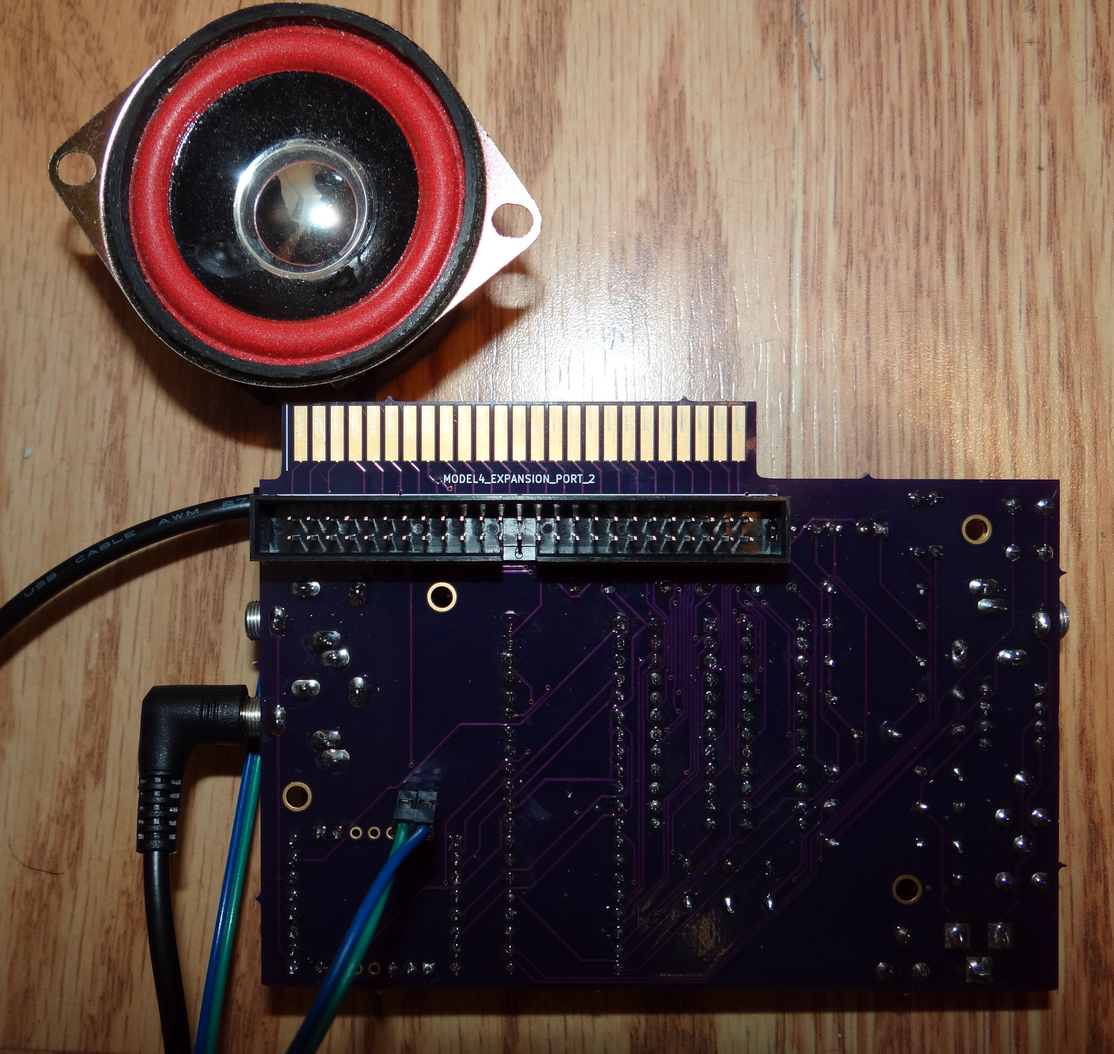
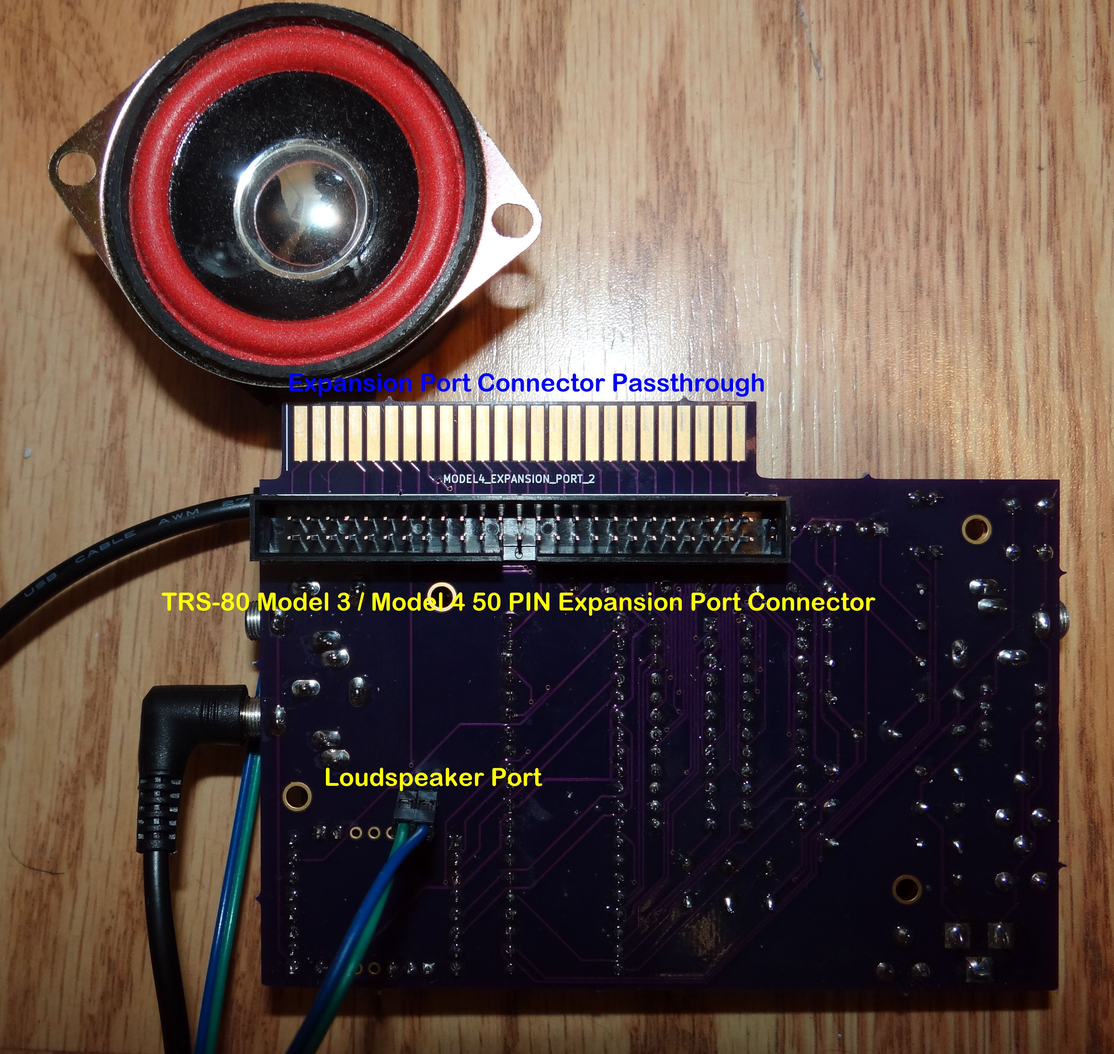
Model 3 / 4 version.

Changed region(s): [[0.1558, 0.5605, 0.7791, 0.5916], [0.2493, 0.3425, 0.6856, 0.3737], [0.2805, 0.7162, 0.4986, 0.7473]]

diff --git a/README.md b/README.md
@@ -72,9 +72,7 @@ Talker/80 offers:
 
   1. **DECtalk-Based Text-to-Speech (TTS) Synthesis:** the **Epson S1V30120 TTS** chip on the utilized mikroBUS "TextToSpeech Click!" daughterboard from MikroElektronika implements DECtalk v5 - a natural sounding speech synthesizer for English and Spanish, with different voices. DECtalk can even sing. The **DECtalk mode** is very powerful and versatile, but the DECtalk control language can be difficult to program. Hence, a simplified control language for the S1V30120 is offered as well, the so-called **Epson mode**. DECtalk mode is used to implement **emulations of two classic TRS-80 Voice Synthesizers**: the official TRS Voice Synthesizer from Tandy Radio Shack (Model 1 only), and the VS-100 Voice Synthesizer from Alpha Products (Model 1, 3, and 4). Both use the **Votrax SC-01** as their underlying speech chip. Talker/80 emulates the SC-01 by means of DECtalk here. The DECtalk and Epson modes produce superior speech quality, and text-to-speech is performed by Talker/80 itself, i.e., no breaking down into phonemes is required. Text to be spoken can be sent directly to IO port 11, and the status of the speech synthesizer is checked by reading from port 11. 
 
-  2. **TRS Voice Synthesizer Emulation - MODEL 1 VERSION ONLY**: the emulation in terms of DECtalk as just described is good enough to produce understandable speech, but it sounds different than the Votrax SC-01 chip. Original software such as the TRS Voice Synthesizer BASIC Demo Program, and "Talking Eliza" work out of the box, but note that the emulation is only 80% faithful or so. Also, original software written for the TRS Voice Synthesizer will only work on Talker/80 for the Model 1. The Model 3 / 4 version offers a workaround (see below), but requires manual software conversion. 
-
-A main difference between the DECtalk-based emulation and the original synthesizers is that it is not possible to utter phonemes "in realtime", as DECtalk requires phoneme buffering and processing before they can be spoken, unlike the SC-01, which is able to utter a phoneme immediatly (they can, for example, be used as "realtime sound effects"). This is exploited, for example, in the TRS Voice Synthesizer BASIC Demo Program, which spells out individual phonemes in real time ("the phonemes in the word zero are: z e r o" etc.) Due to the buffering requirement for DECtalk, this is challenging to get right. Please check out my demo videos below to see if you can live with the result. 
+  2. **TRS Voice Synthesizer Emulation - MODEL 1 VERSION ONLY**: the emulation in terms of DECtalk as just described is good enough to produce understandable speech, but it sounds different than the Votrax SC-01 chip. Original software such as the TRS Voice Synthesizer BASIC Demo Program, and "Talking Eliza" work out of the box, but note that the emulation is only 80% faithful or so. Also, original software written for the TRS Voice Synthesizer will only work on Talker/80 for the Model 1. The Model 3 / 4 version offers a workaround (see below), but requires manual software conversion.  
 
  3. **VS-100 Voice Synthesizer from Alpha Products Emulation**: another classic TRS-80 voice synthesizer. Also used the Votrax SC-01, but was / is not compatible with the TRS Voice Synthesizer. Talker/80 uses the same method of emulation (mapping to DECtalk phonemes). Same comments wrt. buffering etc. apply. Original software works without patches (e.g., VS48 and VS-100DEMO.BAS etc.). In addition, **pitch control is currently no supported**, so the speech will be monotonous. 
 
@@ -91,10 +89,13 @@ A main difference between the DECtalk-based emulation and the original synthesiz
  9. **Three LEDs**: These LEDs are used for mode indiciation, to signal data being received, to indicate when Talker/80 is speaking, and when a single phoneme is being uttered. LEDs will also indicate errors. 
 
 
+A main difference between the DECtalk-based emulation and the original synthesizers is that it is not possible to utter phonemes "in realtime", as DECtalk requires phoneme buffering and processing before they can be spoken, unlike the SC-01, which is able to utter a phoneme immediatly (they can, for example, be used as "realtime sound effects"). This is exploited, for example, in the TRS Voice Synthesizer BASIC Demo Program, which spells out individual phonemes in real time ("the phonemes in the word zero are: z e r o" etc.) Due to the buffering requirement for DECtalk, this is challenging to get right. Please check out my demo videos below to see if you can live with the result. 
+
+
 ## TRS-80 Model 1 Connection & Startup Sequence 
 
-![Board](images/explanation.jpg)
-![Board Backside](images/explanation-back.jpg)
+![Model 1 Board](images/explanation.jpg)
+![Model 1 Board Backside](images/explanation-back.jpg)
 
 Talker/80 gets its power from a standard, voltage stabilized **5V power supply** ("Wall Wart") with **positive center polarity**, **5.5 mm x 2.5mm**.  It connects to the Talker/80 Barrel Jack.  
 
@@ -113,6 +114,9 @@ Same as for Model 1, but use the 50pin ribbon cable. The Talker/80
 passthrough connector can be connected to the FreHD HD emulator, an
 Orchestra-90, or likewise. It is very important that your equipment is
 powered on in the right order of sequence. First power on the expansions (Talker/80, FreHD, ...), and then the Model 3 / Model 4. 
+
+![Model 3 / 4 Board](images/DSC00086.jpg)
+![Model 3 / 4 Board Backside](images/DSC00089.jpg)
 
 ## Hardware Description
 
@@ -485,29 +489,37 @@ The LEDs have the following meaning - during startup and after mode selection, t
 
 
 #### Model 1 Version
+
 ![Schematics](schematics/m1/schematics.jpg) 
 [Click here for a PDF version of the schematics of the Model 1 version.](schematics/m1/schematics.pdf) 
+
 
 #### Model 3 / 4 Version
 ![Schematics](schematics/m3m4/schematics.jpg) 
 [Click here for a PDF version of the schematics of the Model 3 / 4 version.](schematics/m3m4/schematics.pdf) 
+
 
 ### PCB Gerbers 
 
 ![PCB](images/pcb.jpg) 
 ![KiCAD 3D Model](images/3d.jpg)
 
+#### Model 1 Version
+
 [Gerbers of the Model 1 version can be found here.](gerbers/m1/talker80-v3.zip) 
 
 A version is also hosted on [OshPark for immediate ordering of PCBs.](https://oshpark.com/shared_projects/RE78tFPR) And [another one on Seeed.](https://www.seeedstudio.com/Talker-80-Voice-Synthesizer-for-the-TRS-80-Model-1-g-1282942)
 
-### Bill of Material 
+Bill of Material:
 
-#### Model 1 Version BOM 
 ![BOM](schematics/m1/BOM.jpg) 
 
-#### Model 3 / 4 Version BOM 
+#### Model 3 / 4 Version
+
+[Gerbers of the Model 3 / 4 version can be found here.](gerbers/m3m4/talker80-m3m4.zip) 
+
 ![BOM](schematics/m3m4/BOM.jpg) 
+
 
 #### Tipps 
 I recommend the use of standard stackable Arduino Headers for J1 and J2 (instead of soldering the daughter board in permanently). For the amplifier board, J6 and J7 are simple pin headers that make the connection to the amplifier board: 
